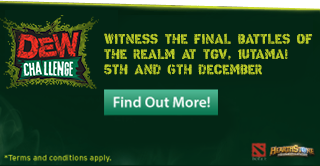
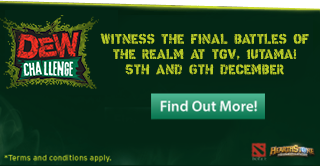
Update on site tracker..

Changed region(s): [[0.3125, 0.1807, 1.0, 0.4518], [0.3125, 0.512, 0.8438, 0.7229]]

diff --git a/web/js/main.js b/web/js/main.js
@@ -159,13 +159,12 @@ var testunit = function () {
             </div> \
             </div>';
 
-            // document.querySelector('.find-out').addEventListener('click', function(){
-                // if(!site){
-                //    app.tracker('CTR', 'site');
-                // }
-                // site = true;
-                
-            // });
+            document.querySelector('.find-out').addEventListener('click', function(){
+                if(!site){
+                   app.tracker('CTR', 'dew_findoutmore');
+                }
+                site = true;
+            });
     }
 
     //app.custTracker = ['http://www.tracker.com?type={{type}}&tt={{tt}}','http://www.tracker2.com?type={{type}}'];

diff --git a/web/css/style.css b/web/css/style.css
@@ -458,14 +458,14 @@ body:after {
     0% {  bottom:-200px;  }
     100% { bottom:0;}
 }
-.bottom-dew a{
-     position: relative;
+.bottom-dew a {
+    position: relative;
     display: block;
-    left: 0;
+    left: 48px;
     right: 0;
     margin: 0 auto;
     text-align: center;
-    bottom: -87px;
+    bottom: -92px;
 }
 
 
